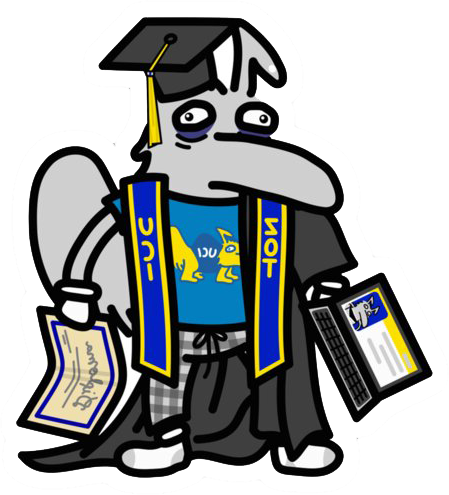
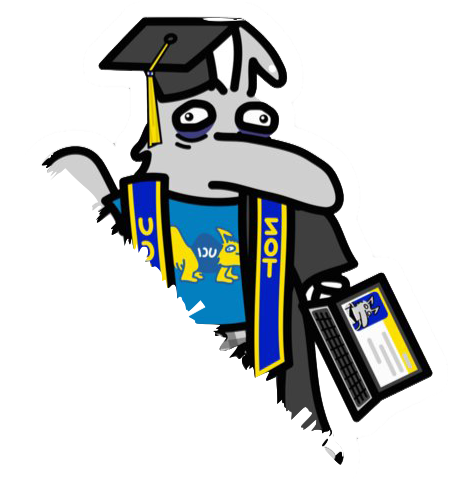
msg

diff --git a/templates/LoginPage.html b/templates/LoginPage.html
@@ -8,7 +8,7 @@
     <link href="https://cdn.jsdelivr.net/npm/bootstrap@5.3.0-alpha1/dist/css/bootstrap.min.css" rel="stylesheet" integrity="sha384-GLhlTQ8iRABdZLl6O3oVMWSktQOp6b7In1Zl3/Jr59b6EGGoI1aFkw7cmDA6j6gD" crossorigin="anonymous">
 
     <link rel="stylesheet" href="app.css">
-    <link rel="shortcut icon" type="image/jpg" href="Favicon_Image_Location"/>
+    <link rel="shortcut icon" type="image/jpg" href="images/Petr Stickers/favicon.ico"/>
     <style>
       img {
       display: block;
@@ -30,9 +30,31 @@
       
     }
 
+    img2 {
+      display: block;
+      max-width: 40%;
+      height: auto;
+      margin: auto;
+      background-color: transparent;
+      transform: rotate(-45deg);
+      float: right;
+      border-image-outset: 10px;
+      overflow:hidden;
+      position: relative;
+      border-image-slice: 30;
+      position: fixed;
+      top: 0px;
+      right: 0px;
+      transition: 0.5s ease-out;
+      
+      
+    }
+
+
     </style>
     <h1 class="display-2">PETR MARKETPLACE</h1>
-    <img src="images/Petr Stickers/Layer 0.png" alt=".img-fluid. max-width: 25% " class="">
+    <img src="images/Petr Stickers/Layer 0.png" alt=".img-fluid." class="">
+    <img src="images/Petr Stickers/gradtrans.png" alt=".img2-fluid." class="">
     <title>Petr Marketplace: Login</title>
 </head>
 <body>
